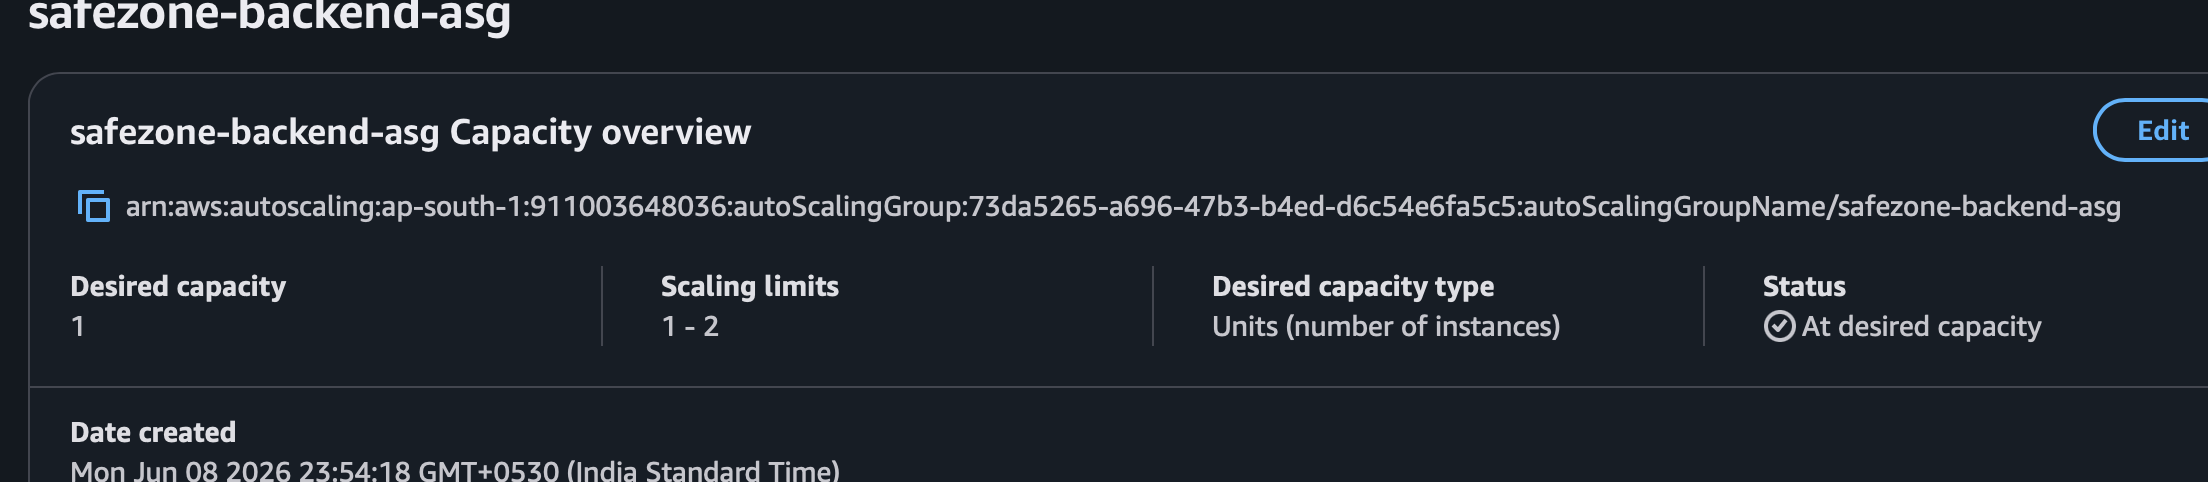
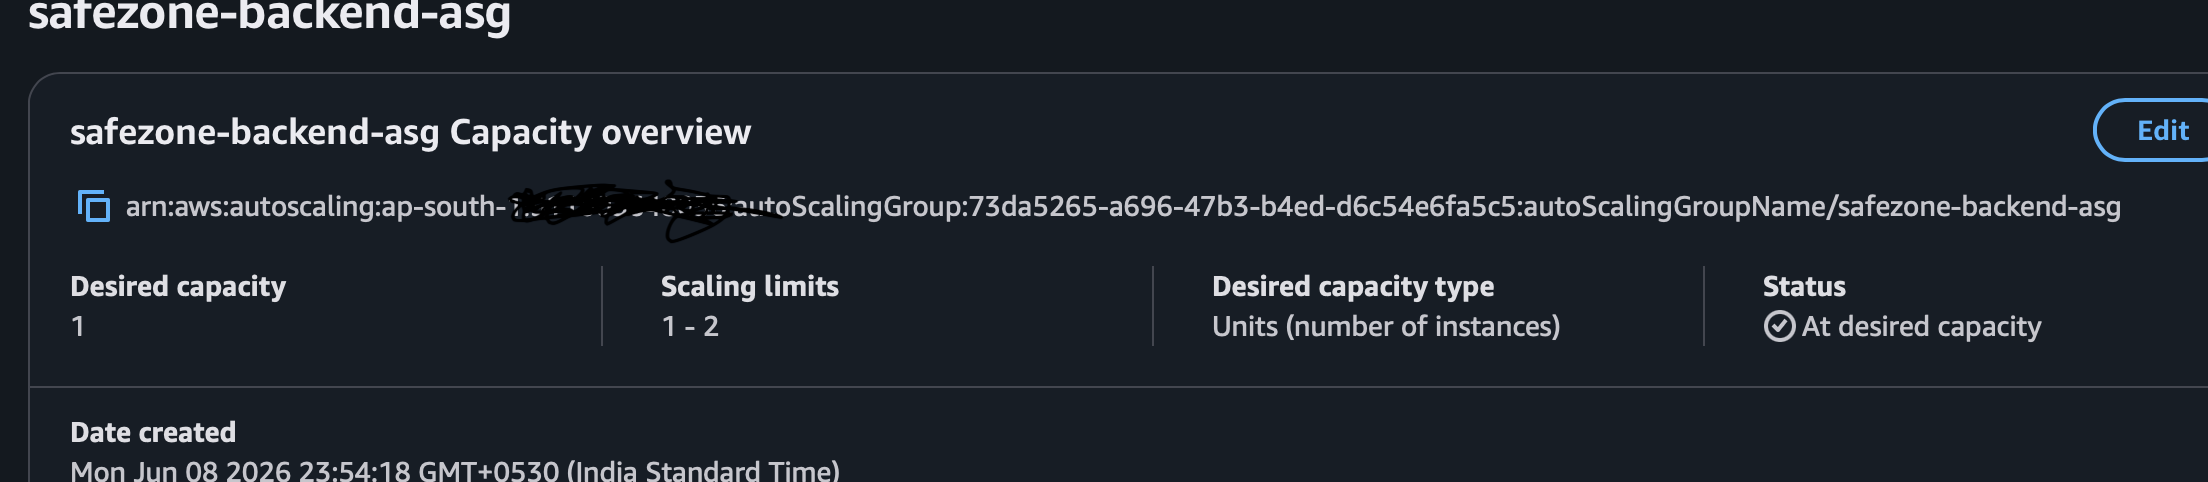
4th

Changed region(s): [[0.2188, 0.3734, 0.375, 0.4668]]

diff --git a/README.md b/README.md
@@ -19,7 +19,6 @@ The infrastructure is split across two VPCs connected by VPC Peering.
 
 Keeping the processing server in a private subnet means it's never directly exposed to the internet — all traffic to it has to come through the frontend tier first. Route tables enforce this at the subnet level (no `0.0.0.0/0 → Internet Gateway` entry on VPC-A's private subnet), and Security Groups enforce it at the instance level (the backend SG only allows inbound traffic from the frontend SG).
 
-> 📁 `docs/01-vpc-a.png`, `docs/02-vpc-b.png`, `docs/03-vpc-peering.png`, `docs/04-route-tables.JPG`
 
 ---
 
@@ -84,45 +83,59 @@ Laptop (2 cams) → ALB → Frontend EC2 (Nginx) → VPC Peering → Backend EC2
 ### Image reference
 
 **VPC-A — backend processing network (private subnet)**
+
 ![VPC-A](docs/01-vpc-a.png)
 
 **VPC-B — frontend network (public + private subnet)**
+
 ![VPC-B](docs/02-vpc-b.png)
 
 **VPC peering connection between A and B**
+
 ![VPC Peering](docs/03-vpc-peering.png)
 
 **Route tables controlling subnet-level access**
-![Route Tables](docs/04-route-tables.JPG)
+
+![Route Tables](docs/04-route-tables.jpeg)
 
 **Application Load Balancer config**
+
 ![ALB](docs/05-alb.png)
 
 **Auto Scaling Groups (frontend + backend)**
+
 ![Auto Scaling Groups](docs/06-asg.png)
 
 **Route 53 hosted zone / DNS records**
+
 ![Route 53](docs/07-route53.png)
 
 **S3 bucket storing processed videos**
+
 ![S3 Bucket](docs/08-s3-bucket.png)
 
 **DynamoDB table + items**
+
 ![DynamoDB](docs/09-dynamodb-table.png)
 
 **Lambda trigger config (S3 event source)**
+
 ![Lambda Trigger](docs/10-lamda-trigger.png)
 
 **ACM certificate**
+
 ![ACM](docs/11-ACM.png)
 
 **Frontend — upload screen**
+
 ![Upload Page](docs/12-upload-page.png)
 
 **Frontend — processing/status screen**
+
 ![Processing Page](docs/13-processing-page.png)
 
 **Frontend — results/dashboard screen**
+
 ![Results Page](docs/14-results-page.png)
 
 > Place these 14 images in a `docs/` folder at the repo root so the images above render.